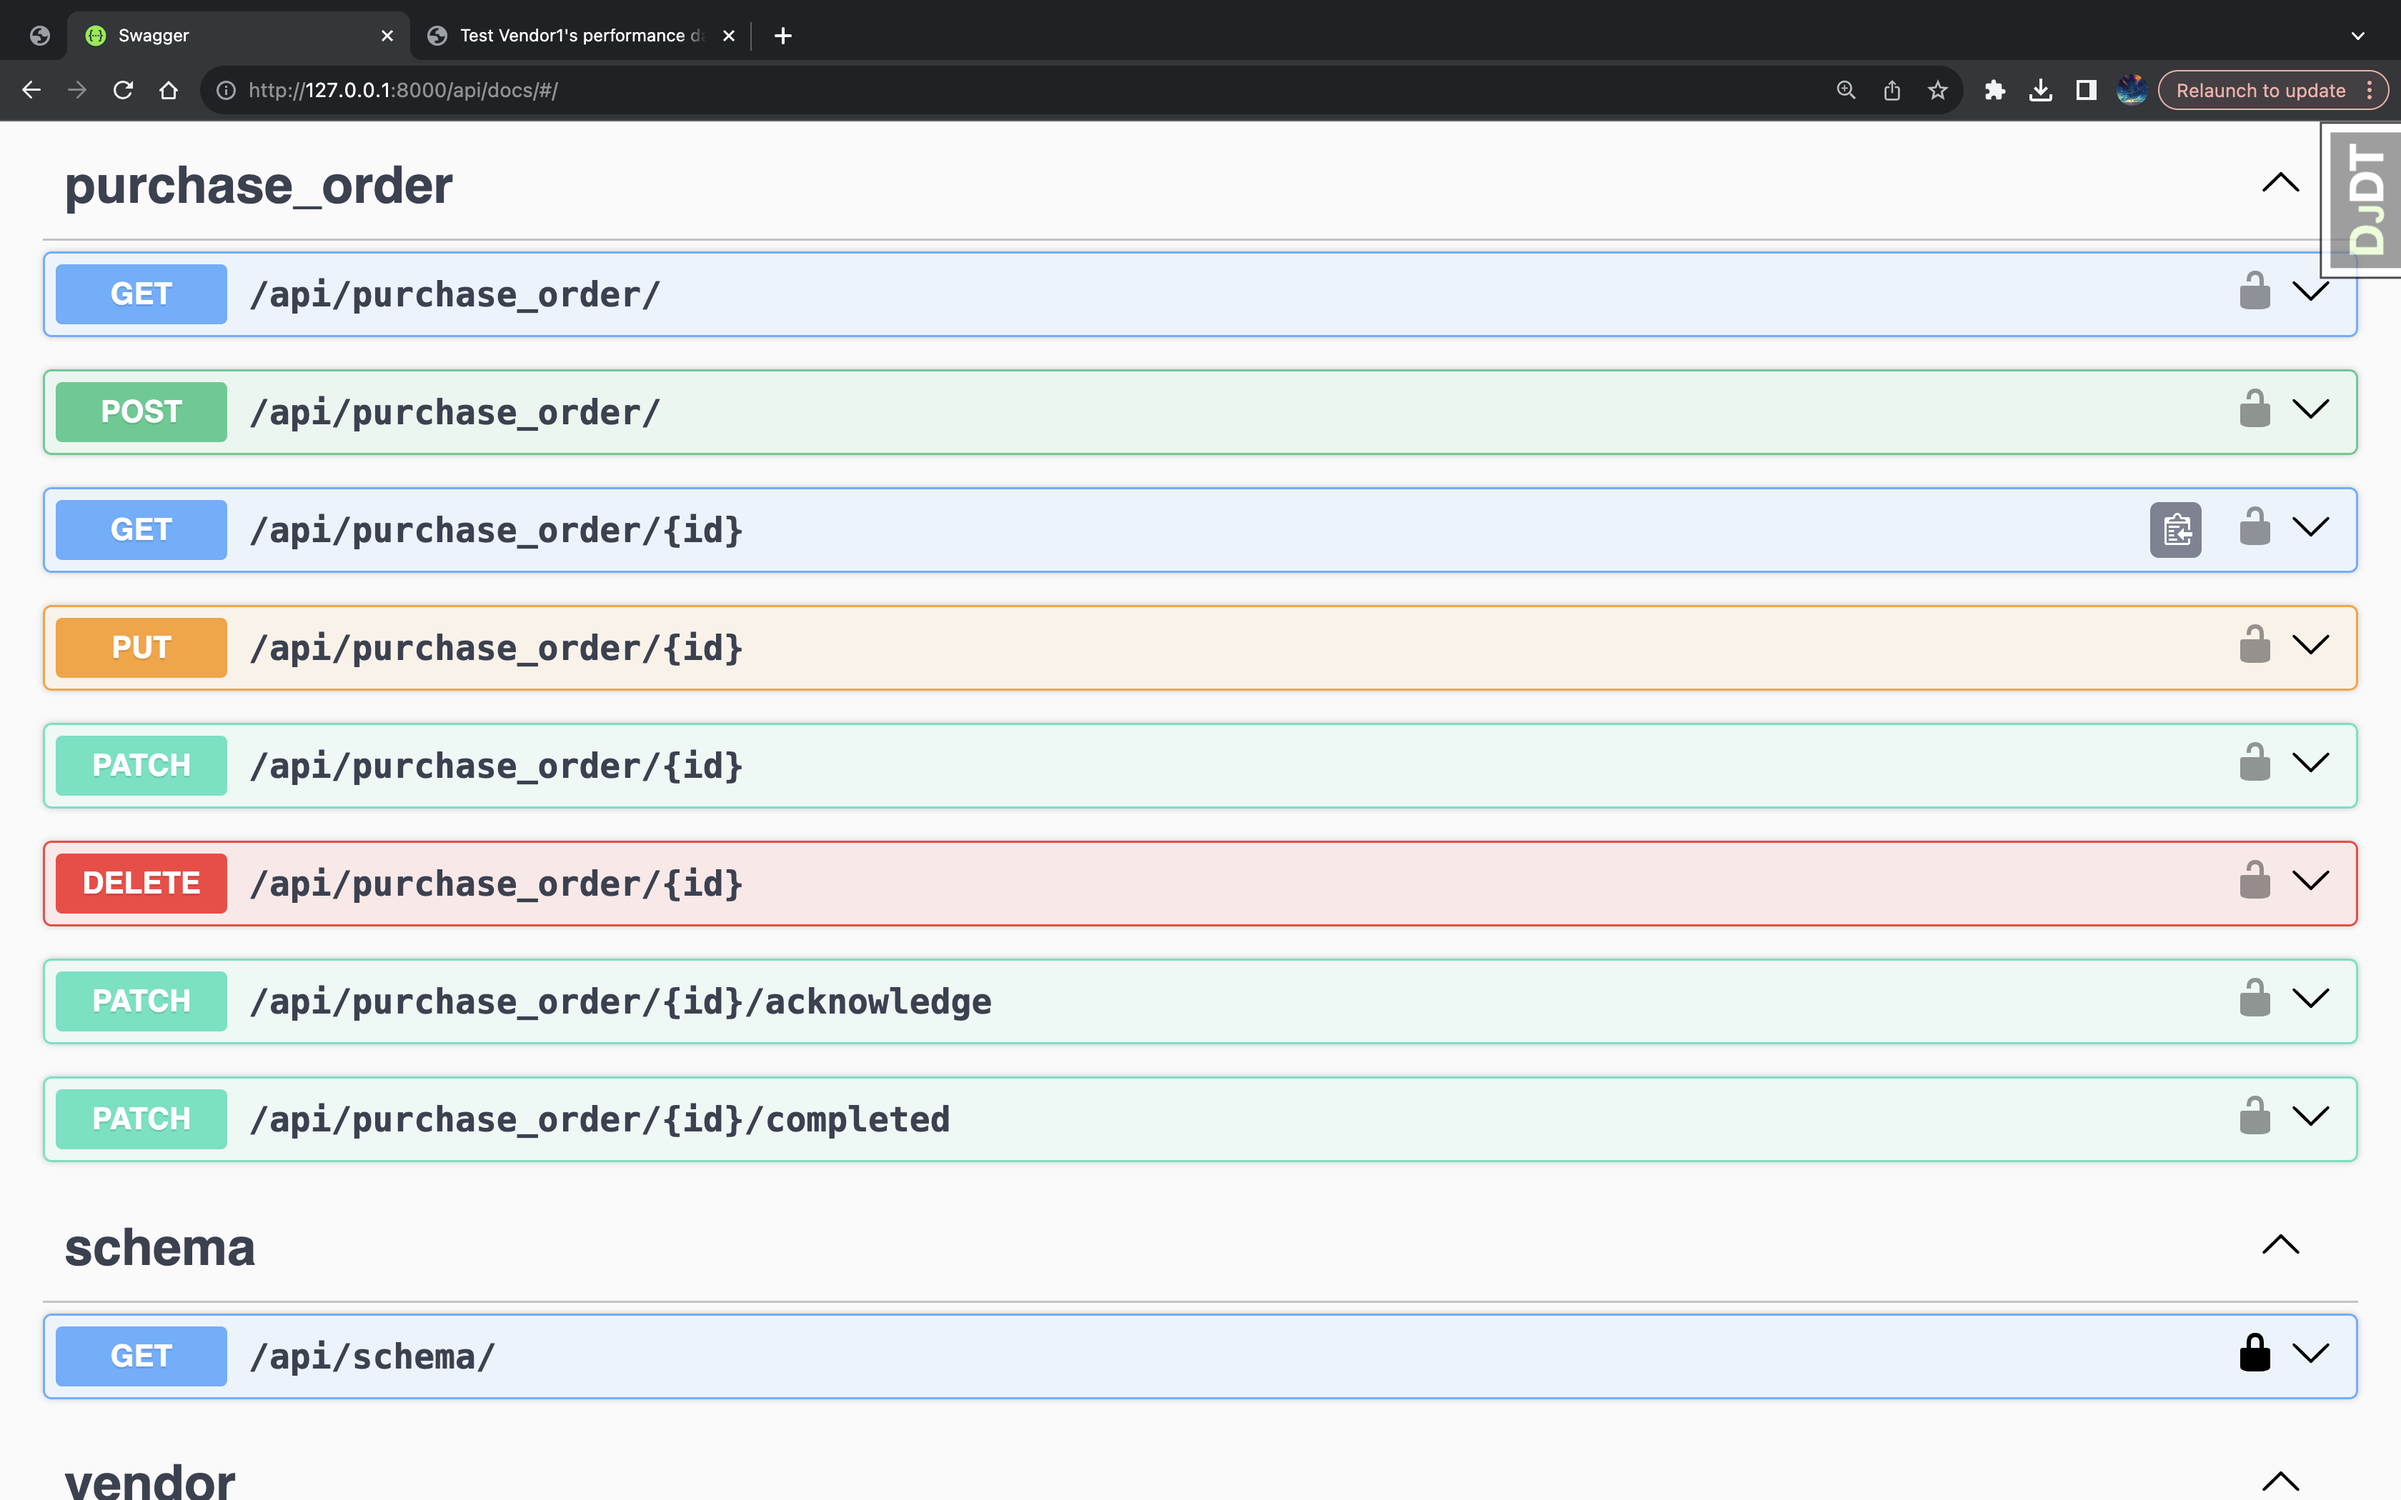
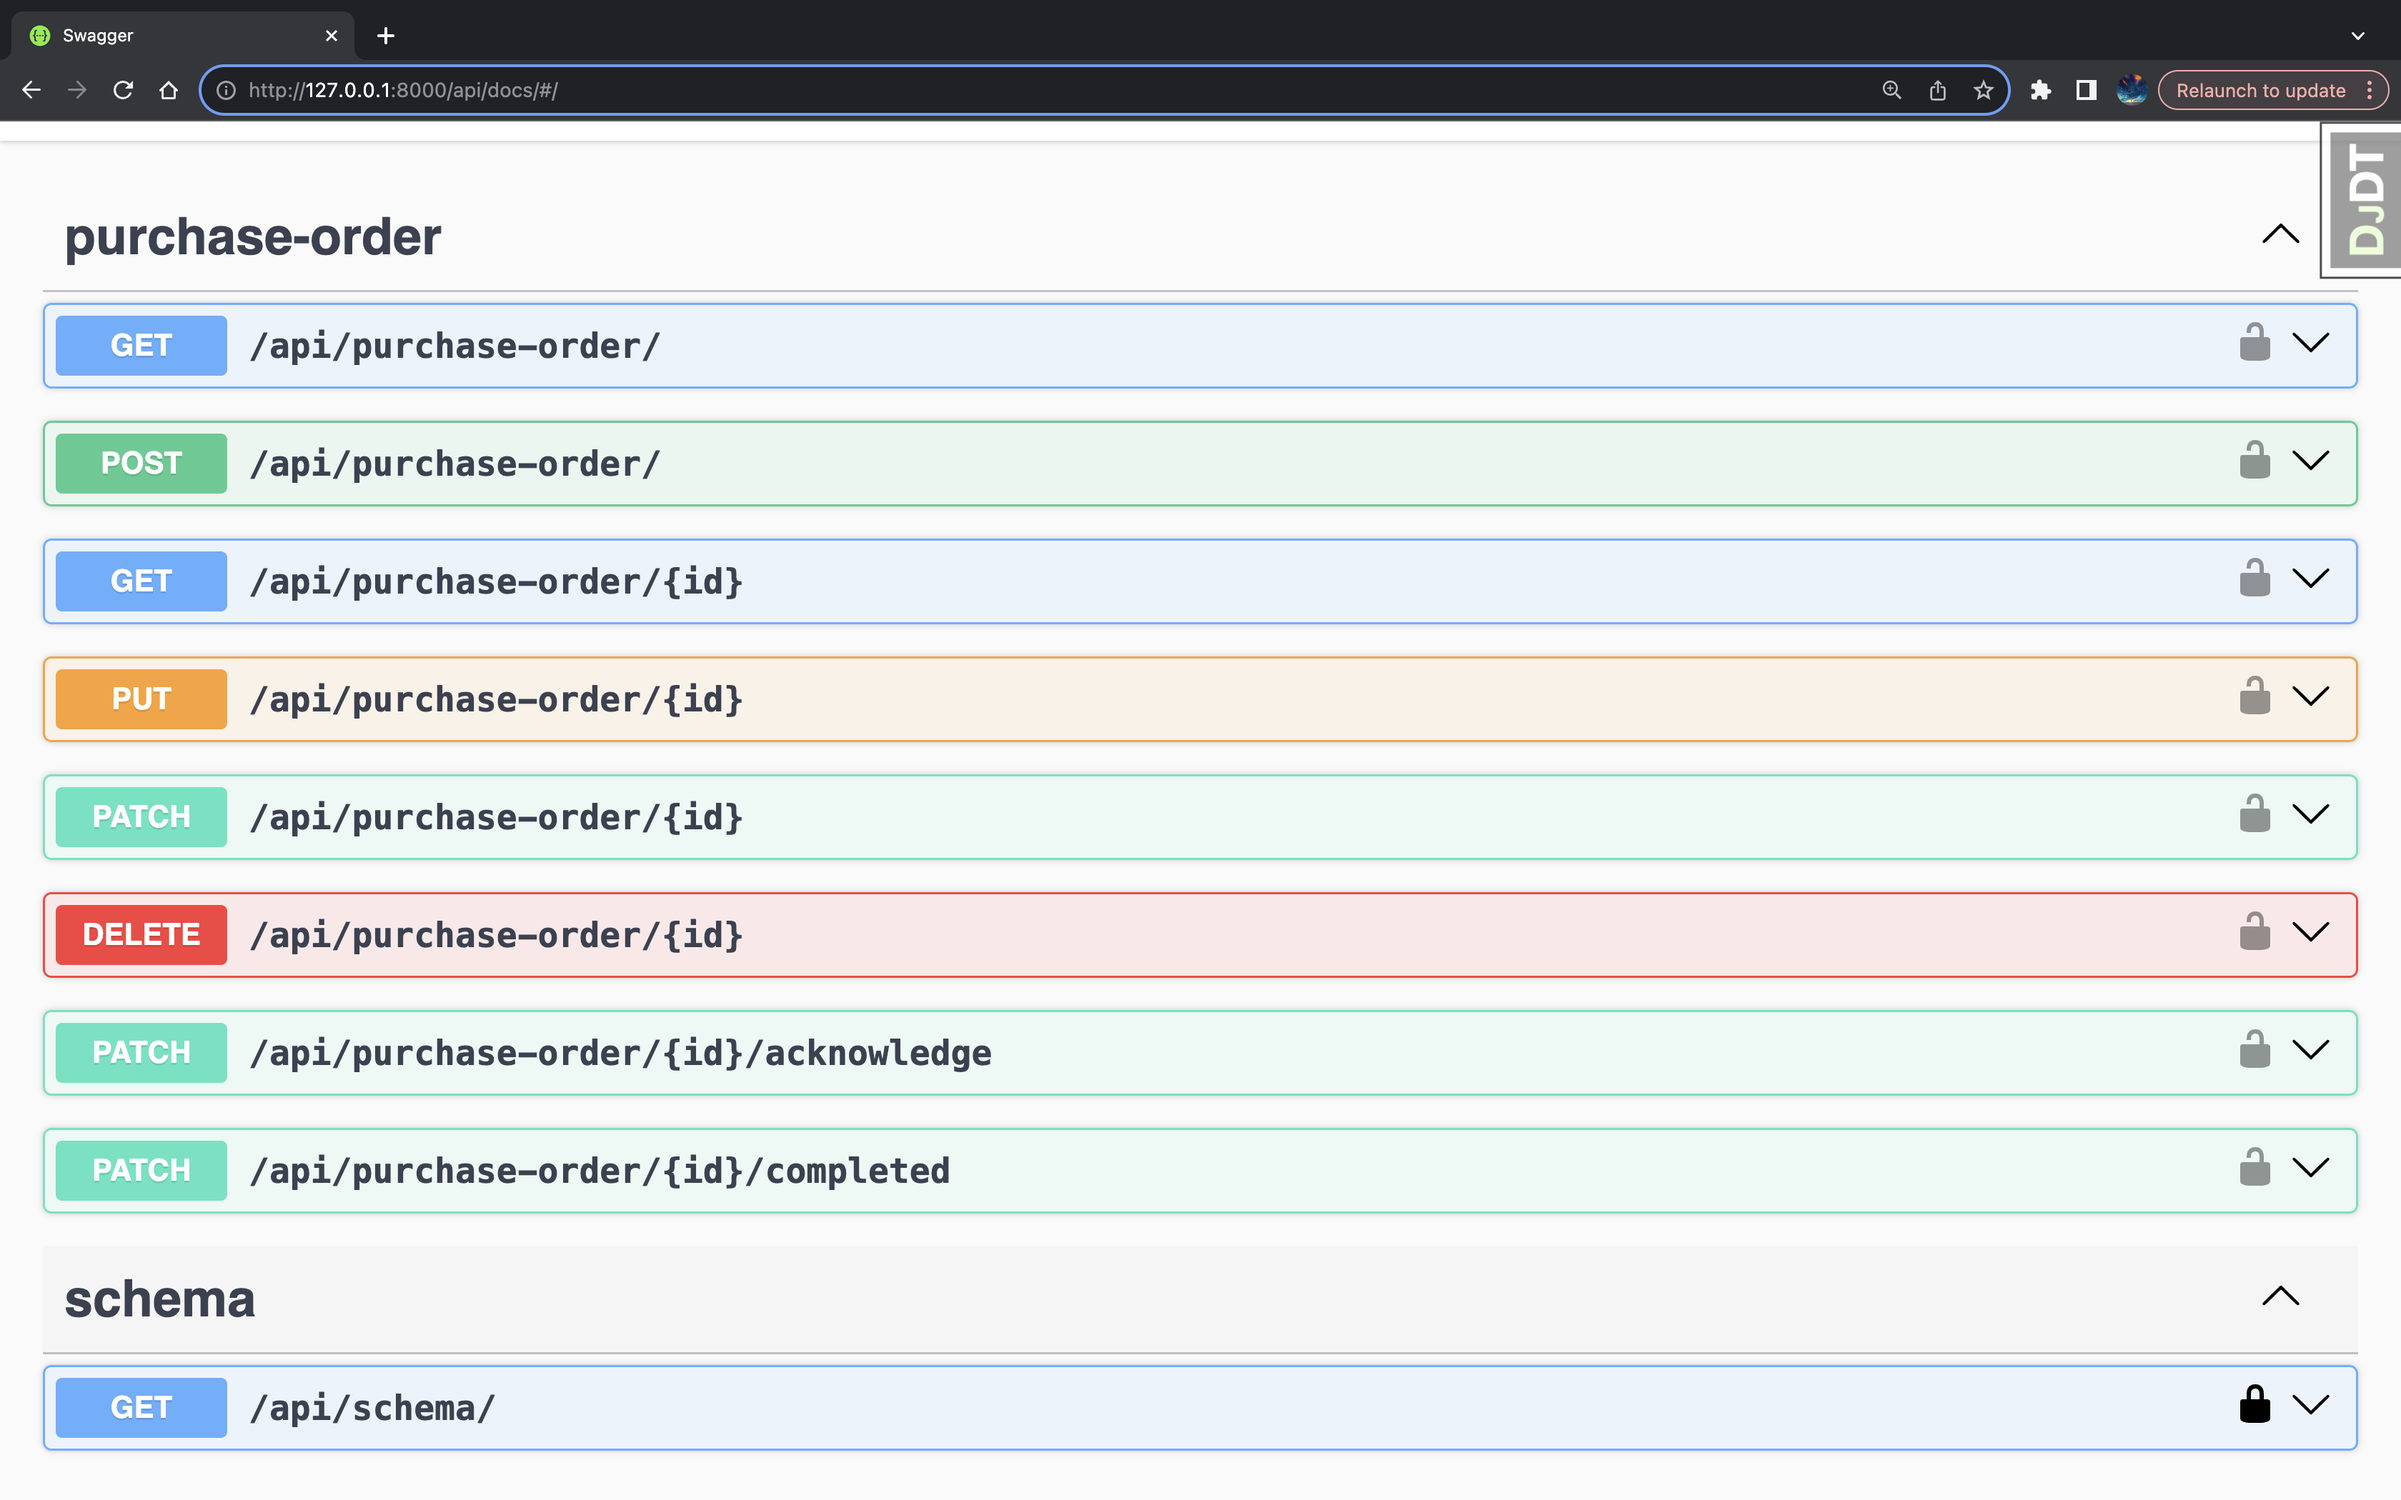
Edited image and url related to purchase orders.

diff --git a/vendor_app/vendor_app/urls.py b/vendor_app/vendor_app/urls.py
@@ -19,5 +19,5 @@ urlpatterns = [
         name='api-docs',
     ),
     path('api/vendor/', include('vendor.urls')),
-    path('api/purchase_order/', include('order.urls')),
+    path('api/purchase-order/', include('order.urls')),
 ]
